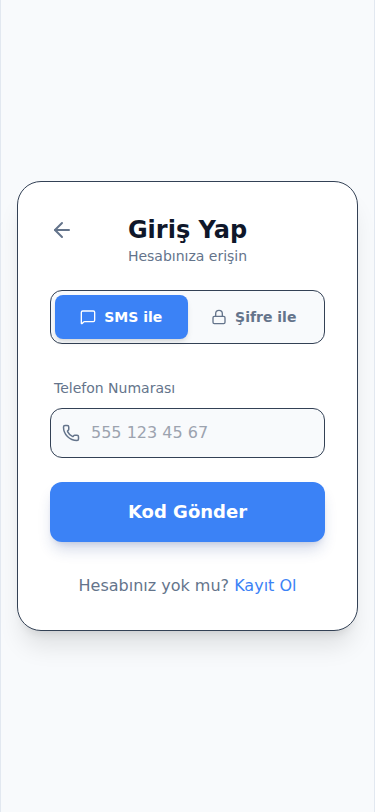
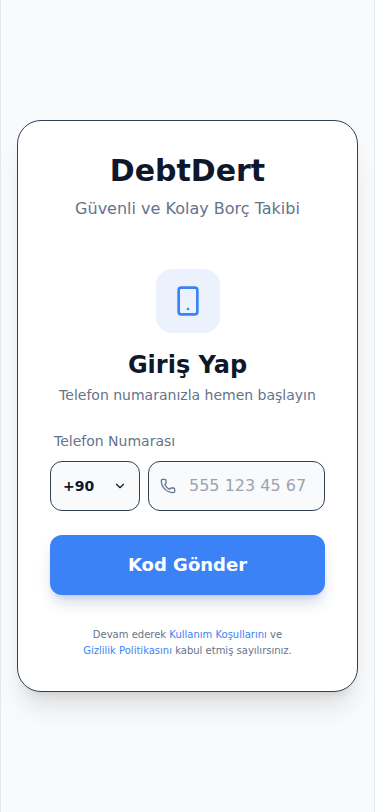
Improve login design and implement legal modals
- Redesigned the login header with a modern 'Smartphone' icon and better typography.
- Implemented 'Kullanım Koşulları' (Terms of Use) and 'Gizlilik Politikası' (Privacy Policy) modals with detailed Turkish content tailored for DebtDert.
- Added interactive links in the login footer to trigger legal modals.
- Formatted the phone number in the OTP verification step using `formatPhoneForDisplay` for better readability.
- Cleaned up unused imports in Login.tsx.

diff --git a/src/components/LegalModals.tsx b/src/components/LegalModals.tsx
@@ -1,0 +1,128 @@
+import React from 'react';
+import { motion, AnimatePresence } from 'framer-motion';
+import { X, Shield, FileText } from 'lucide-react';
+
+interface LegalModalProps {
+    isOpen: boolean;
+    onClose: () => void;
+    title: string;
+    children: React.ReactNode;
+    icon: React.ElementType;
+}
+
+const LegalModal: React.FC<LegalModalProps> = ({ isOpen, onClose, title, children, icon: Icon }) => {
+    return (
+        <AnimatePresence>
+            {isOpen && (
+                <div className="fixed inset-0 z-[100] flex items-center justify-center p-4">
+                    <motion.div
+                        initial={{ opacity: 0 }}
+                        animate={{ opacity: 1 }}
+                        exit={{ opacity: 0 }}
+                        className="absolute inset-0 bg-black/60 backdrop-blur-md"
+                        onClick={onClose}
+                    />
+                    <motion.div
+                        initial={{ opacity: 0, scale: 0.95, y: 20 }}
+                        animate={{ opacity: 1, scale: 1, y: 0 }}
+                        exit={{ opacity: 0, scale: 0.95, y: 20 }}
+                        className="relative w-full max-w-lg bg-surface border border-slate-700 rounded-[2.5rem] shadow-2xl flex flex-col max-h-[80vh] overflow-hidden"
+                    >
+                        {/* Header */}
+                        <div className="p-6 border-b border-slate-800 flex items-center justify-between bg-surface/50 sticky top-0 z-10">
+                            <div className="flex items-center gap-3">
+                                <div className="p-2 bg-primary/10 rounded-xl">
+                                    <Icon className="text-primary" size={24} />
+                                </div>
+                                <h2 className="text-xl font-bold text-text-primary">{title}</h2>
+                            </div>
+                            <button
+                                onClick={onClose}
+                                className="p-2 hover:bg-slate-800 rounded-full text-text-secondary hover:text-text-primary transition-colors"
+                            >
+                                <X size={24} />
+                            </button>
+                        </div>
+
+                        {/* Content */}
+                        <div className="p-8 overflow-y-auto text-text-secondary leading-relaxed space-y-6 scrollbar-thin scrollbar-thumb-slate-700">
+                            {children}
+                        </div>
+
+                        {/* Footer */}
+                        <div className="p-6 border-t border-slate-800 flex justify-end bg-surface/50">
+                            <button
+                                onClick={onClose}
+                                className="px-8 py-3 bg-primary text-white rounded-xl font-bold hover:bg-blue-600 transition-colors shadow-lg shadow-blue-900/20"
+                            >
+                                Anladım
+                            </button>
+                        </div>
+                    </motion.div>
+                </div>
+            )}
+        </AnimatePresence>
+    );
+};
+
+export const TermsOfServiceModal: React.FC<{ isOpen: boolean; onClose: () => void }> = ({ isOpen, onClose }) => (
+    <LegalModal isOpen={isOpen} onClose={onClose} title="Kullanım Koşulları" icon={FileText}>
+        <div className="space-y-4 text-sm">
+            <section>
+                <h3 className="font-bold text-text-primary mb-2">1. Taraflar</h3>
+                <p>Bu Kullanım Koşulları, DebtDert uygulamasını ("Uygulama") kullanan kişi ("Kullanıcı") ile Uygulama geliştiricileri arasındadır.</p>
+            </section>
+            <section>
+                <h3 className="font-bold text-text-primary mb-2">2. Hizmetin Tanımı</h3>
+                <p>DebtDert, kullanıcıların şahsi borç ve alacak kayıtlarını dijital ortamda tutmalarına olanak sağlayan bir takip platformudur. Uygulama, finansal bir danışmanlık, bankacılık veya ödeme hizmeti sunmaz.</p>
+            </section>
+            <section>
+                <h3 className="font-bold text-text-primary mb-2">3. Kullanım Şartları</h3>
+                <p>Uygulamayı kullanarak, girdiğiniz tüm verilerin doğruluğundan bizzat sorumlu olduğunuzu kabul edersiniz. Uygulama, kullanıcılar arasındaki borç ilişkilerinde bir arabulucu veya şahitlik rolü üstlenmez.</p>
+            </section>
+            <section>
+                <h3 className="font-bold text-text-primary mb-2">4. Veri Sorumluluğu</h3>
+                <p>Kaydedilen borçların takibi, vadesi ve tahsili tamamen kullanıcının insiyatifindedir. Uygulama üzerinde yapılan hatalı girişlerden veya veri kayıplarından doğabilecek zararlardan Uygulama geliştiricileri sorumlu tutulamaz.</p>
+            </section>
+            <section>
+                <h3 className="font-bold text-text-primary mb-2">5. Yasaklı Kullanım</h3>
+                <p>Uygulama yasa dışı ticari faaliyetler, kara para aklama veya tefecilik gibi yasal olmayan işler için kullanılamaz. Bu tür kullanımların tespiti durumunda hesap askıya alınabilir.</p>
+            </section>
+            <section>
+                <h3 className="font-bold text-text-primary mb-2">6. Değişiklikler</h3>
+                <p>Uygulama geliştiricileri, bu kullanım koşullarını dilediği zaman güncelleme hakkına sahiptir. Kullanıcılar, Uygulamayı kullanmaya devam ederek güncel koşulları kabul etmiş sayılırlar.</p>
+            </section>
+        </div>
+    </LegalModal>
+);
+
+export const PrivacyPolicyModal: React.FC<{ isOpen: boolean; onClose: () => void }> = ({ isOpen, onClose }) => (
+    <LegalModal isOpen={isOpen} onClose={onClose} title="Gizlilik Politikası" icon={Shield}>
+        <div className="space-y-4 text-sm">
+            <section>
+                <h3 className="font-bold text-text-primary mb-2">1. Toplanan Veriler</h3>
+                <p>Kimlik doğrulaması yapabilmek için telefon numaranız ve profil oluştururken verdiğiniz isim verileri toplanmaktadır. Ayrıca, Uygulama içinde oluşturduğunuz borç kayıtları (miktar, tarih, açıklama, karşı taraf bilgisi) sistemlerimizde saklanır.</p>
+            </section>
+            <section>
+                <h3 className="font-bold text-text-primary mb-2">2. Veri Kullanım Amacı</h3>
+                <p>Toplanan veriler, sadece Uygulama'nın temel işlevlerini (borç takibi, bildirimler, hesap yönetimi) yerine getirmek amacıyla kullanılır. Verileriniz reklam amacıyla üçüncü taraflarla paylaşılmaz.</p>
+            </section>
+            <section>
+                <h3 className="font-bold text-text-primary mb-2">3. Veri Saklama ve Güvenlik</h3>
+                <p>Verileriniz, Google Firebase altyapısı kullanılarak yüksek güvenlikli bulut sunucularında şifrelenmiş olarak saklanır. Güvenliğiniz için SMS doğrulama sistemi kullanılmaktadır.</p>
+            </section>
+            <section>
+                <h3 className="font-bold text-text-primary mb-2">4. Rehber Erişimi</h3>
+                <p>Uygulama, borç kaydı oluştururken kişilerinizi kolayca seçebilmeniz için rehber erişim izni isteyebilir. Rehber verileriniz sunucularımıza kopyalanmaz, sadece Uygulama içerisinde yerel olarak gösterim ve eşleştirme amaçlı kullanılır.</p>
+            </section>
+            <section>
+                <h3 className="font-bold text-text-primary mb-2">5. Veri Silme Hakları</h3>
+                <p>Kullanıcılar, diledikleri zaman hesaplarını ve tüm geçmiş verilerini Uygulama ayarları üzerinden kalıcı olarak silebilirler. Silinen veriler geri getirilemez.</p>
+            </section>
+            <section>
+                <h3 className="font-bold text-text-primary mb-2">6. İletişim</h3>
+                <p>Gizlilik politikamızla ilgili her türlü sorunuz için uygulama içi destek bölümünden bize ulaşabilirsiniz.</p>
+            </section>
+        </div>
+    </LegalModal>
+);

diff --git a/src/pages/Login.tsx b/src/pages/Login.tsx
@@ -1,15 +1,16 @@
 import { useState, useRef, useEffect } from 'react';
-import { useNavigate, Link } from 'react-router-dom';
-import { Loader2, MessageSquare, Lock, ArrowLeft, Check, ShieldCheck, User, ArrowRight } from 'lucide-react';
+import { useNavigate } from 'react-router-dom';
+import { Loader2, ShieldCheck, User, ArrowRight, Smartphone } from 'lucide-react';
 import { auth, db } from '../services/firebase';
 import { RecaptchaVerifier } from 'firebase/auth';
 import type { ConfirmationResult } from 'firebase/auth';
 import { doc, getDoc } from 'firebase/firestore';
-import { startPhoneLogin, ensureUserDocument, finalizeUserRegistration } from '../services/auth';
+import { startPhoneLogin, finalizeUserRegistration } from '../services/auth';
 import { useModal } from '../context/ModalContext';
 import { useAuth } from '../hooks/useAuth';
-import clsx from 'clsx';
 import { PhoneInput } from '../components/PhoneInput';
+import { formatPhoneForDisplay } from '../utils/phoneUtils';
+import { TermsOfServiceModal, PrivacyPolicyModal } from '../components/LegalModals';
 
 type Step = 'PHONE' | 'OTP' | 'DETAILS';
 
@@ -17,6 +18,10 @@ export const Login = () => {
     const navigate = useNavigate();
     const [loading, setLoading] = useState(false);
     const { showAlert } = useModal();
+
+    // Modals
+    const [isTermsOpen, setIsTermsOpen] = useState(false);
+    const [isPrivacyOpen, setIsPrivacyOpen] = useState(false);
 
     // Form Data
     const [phone, setPhone] = useState('');
@@ -129,8 +134,11 @@ export const Login = () => {
                     {step === 'PHONE' && (
                         <div className="space-y-6">
                             <div className="text-center">
-                                <h2 className="text-xl font-bold text-text-primary">Giriş Yap</h2>
-                                <p className="text-text-secondary text-sm">Telefon numaranızla hemen başlayın</p>
+                                <div className="w-16 h-16 bg-primary/10 rounded-2xl flex items-center justify-center mx-auto mb-4">
+                                    <Smartphone size={32} className="text-primary" />
+                                </div>
+                                <h2 className="text-2xl font-extrabold text-text-primary">Giriş Yap</h2>
+                                <p className="text-text-secondary text-sm mt-1">Telefon numaranızla hemen başlayın</p>
                             </div>
                             <form onSubmit={handleSendSms} className="space-y-6">
                                 <div className="space-y-2">
@@ -159,7 +167,7 @@ export const Login = () => {
                                 <ShieldCheck size={48} className="mx-auto text-primary mb-2 opacity-80" />
                                 <h2 className="text-xl font-bold text-text-primary">Kodu Doğrula</h2>
                                 <p className="text-text-secondary text-sm">
-                                    {phone} numarasına gelen kodu girin.
+                                    <span className="font-bold text-text-primary">{formatPhoneForDisplay(phone)}</span> numarasına gelen kodu girin.
                                 </p>
                             </div>
                             <form onSubmit={handleVerifySms} className="space-y-6">
@@ -228,10 +236,27 @@ export const Login = () => {
                     )}
                 </div>
 
-                <div className="mt-8 text-center text-xs text-text-secondary">
-                    Giriş yaparak kullanım koşullarını ve gizlilik politikasını kabul etmiş sayılırsınız.
+                <div className="mt-8 text-center text-[10px] leading-relaxed text-text-secondary px-4">
+                    Devam ederek{' '}
+                    <button
+                        onClick={() => setIsTermsOpen(true)}
+                        className="text-primary hover:underline font-medium"
+                    >
+                        Kullanım Koşullarını
+                    </button>
+                    {' '}ve{' '}
+                    <button
+                        onClick={() => setIsPrivacyOpen(true)}
+                        className="text-primary hover:underline font-medium"
+                    >
+                        Gizlilik Politikasını
+                    </button>
+                    {' '}kabul etmiş sayılırsınız.
                 </div>
             </div>
+
+            <TermsOfServiceModal isOpen={isTermsOpen} onClose={() => setIsTermsOpen(false)} />
+            <PrivacyPolicyModal isOpen={isPrivacyOpen} onClose={() => setIsPrivacyOpen(false)} />
         </div>
     );
 };
